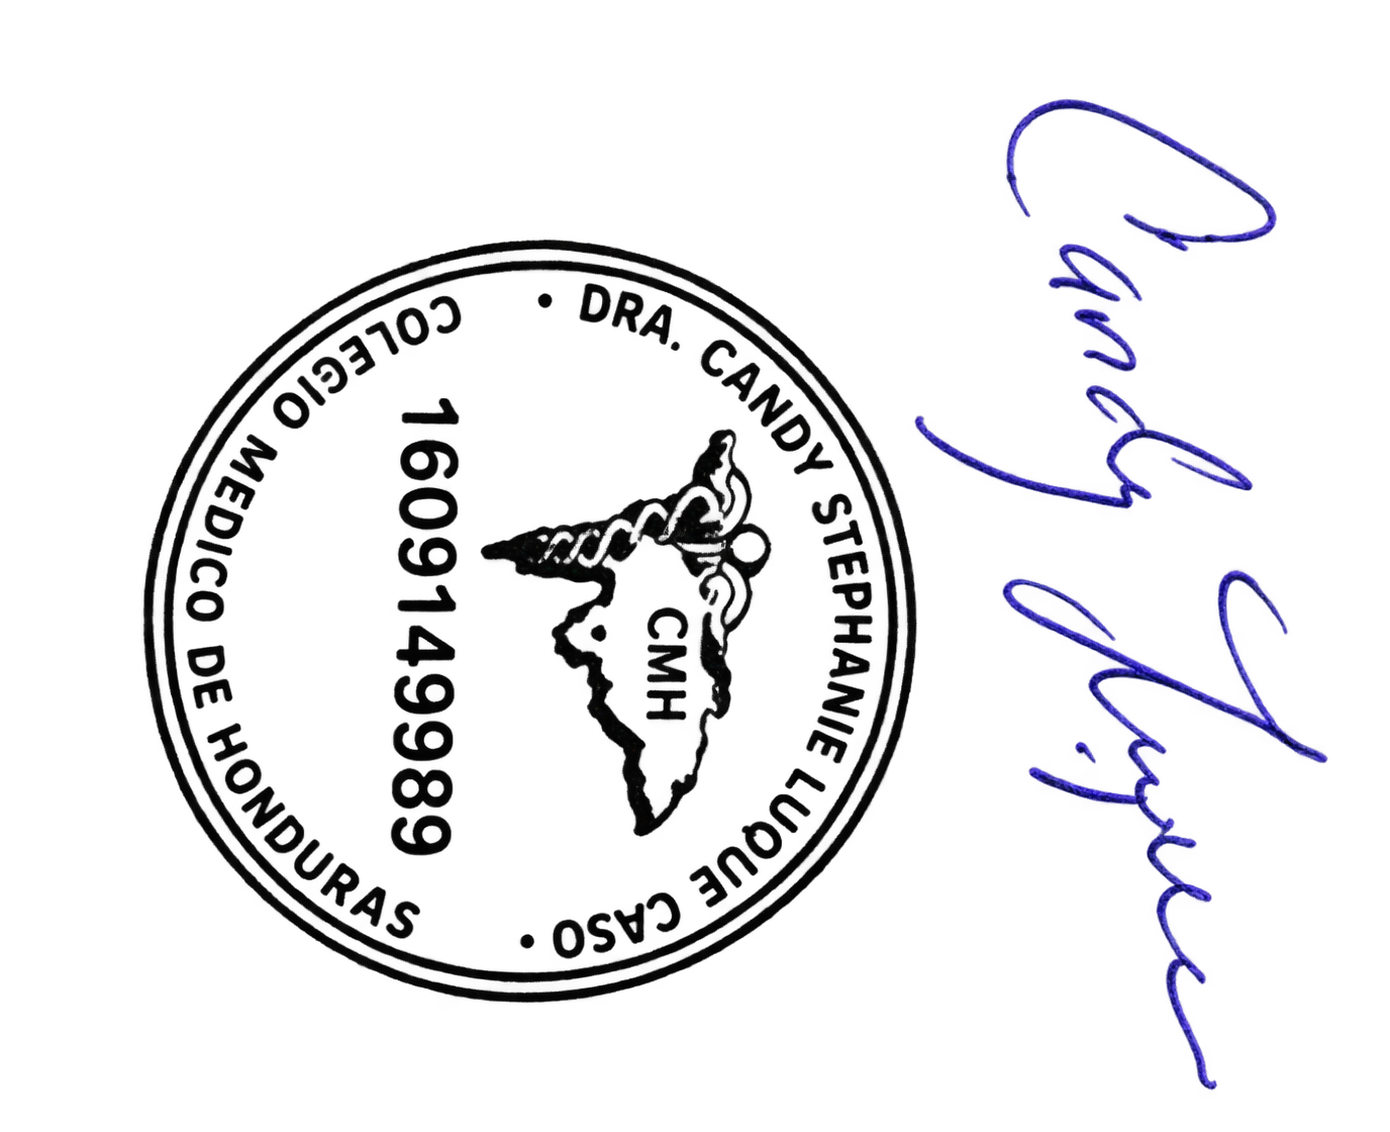
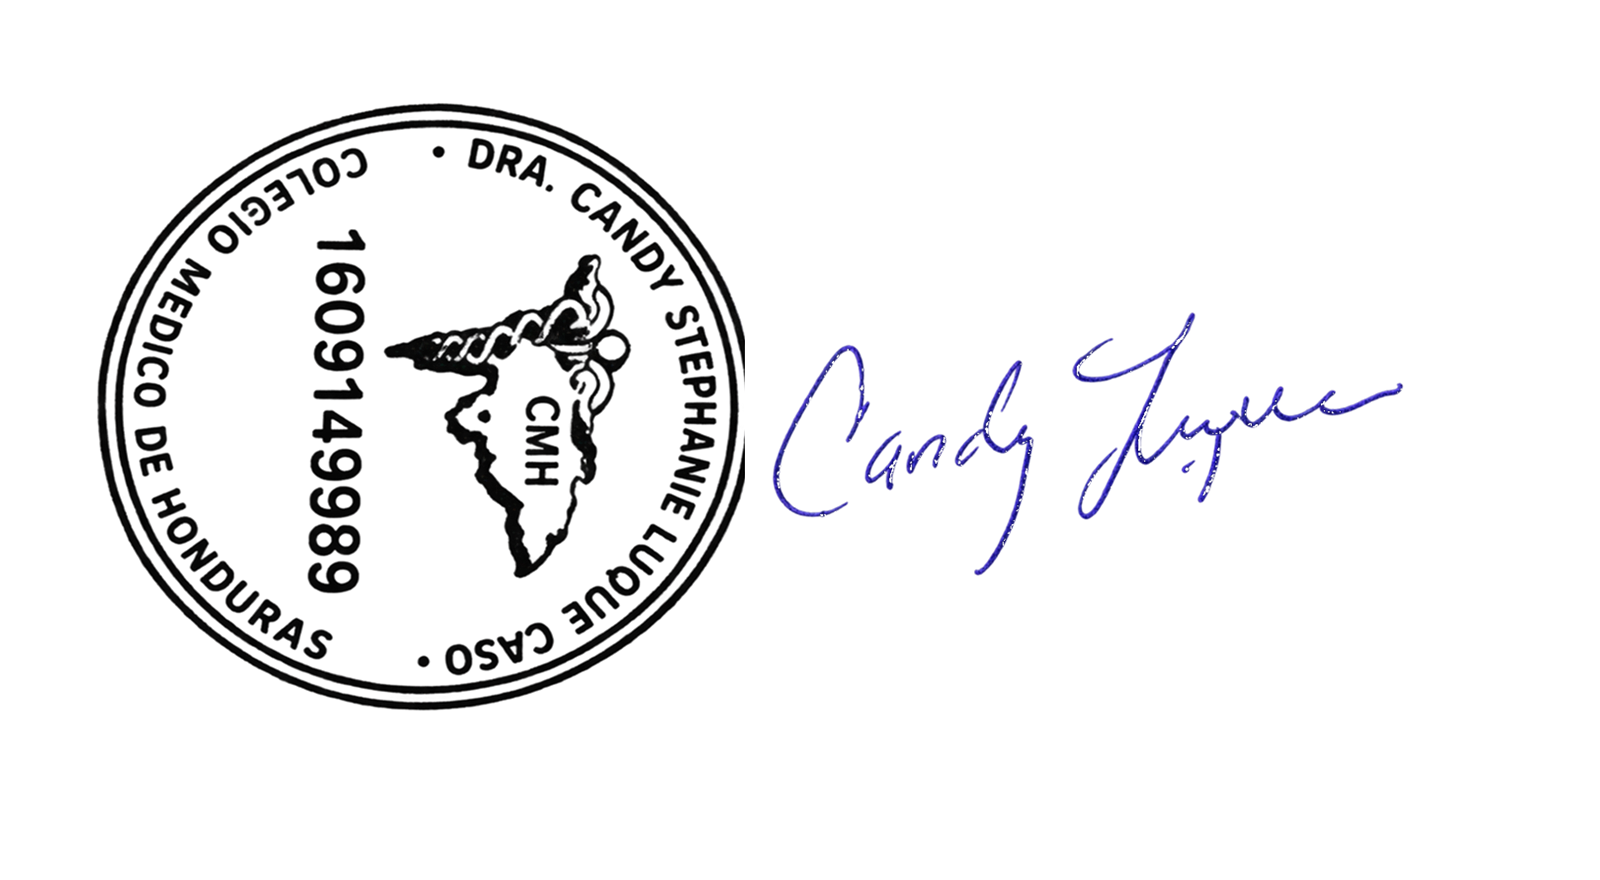
Optimizar sello horizontal y receta en una pagina

Changed region(s): [[0.0619, 0.092, 0.959, 0.9511], [0.8043, 0.1227, 0.9281, 0.2148], [0.7115, 0.092, 0.8353, 0.1841]]

diff --git a/clinica/templates/clinica/receta_imprimir.html b/clinica/templates/clinica/receta_imprimir.html
@@ -4,7 +4,43 @@
     <meta charset="utf-8">
     <title>Receta - {{ paciente.nombre }}</title>
     <style>
-        @page{size:letter;margin:18mm}*{box-sizing:border-box}body{font-family:Arial,Helvetica,sans-serif;color:#102338;margin:0;background:#eef4f8}.sheet{max-width:820px;margin:24px auto;background:#fff;border-radius:18px;padding:34px;box-shadow:0 24px 60px rgba(16,35,56,.16)}.head{display:flex;justify-content:space-between;gap:18px;align-items:center;border-bottom:3px solid #19b8ae;padding-bottom:18px}.brand{display:flex;gap:14px;align-items:center}.logo{width:74px;height:74px;border-radius:18px;border:1px solid #d7e4ee;display:grid;place-items:center;overflow:hidden;color:#19b8ae;font-weight:900;font-size:24px}.logo img{width:100%;height:100%;object-fit:contain}.brand h1{margin:0;font-size:24px}.brand p,.meta p{margin:4px 0;color:#5c7182;font-size:12px}.meta{text-align:right}.title{margin:28px 0 18px;text-align:center;letter-spacing:.18em;text-transform:uppercase;color:#0f6f8a}.patient{display:grid;grid-template-columns:repeat(3,1fr);gap:10px;margin-bottom:22px}.box{border:1px solid #d8e5ee;border-radius:12px;padding:11px}.box span{display:block;font-size:10px;color:#6c7f8f;font-weight:900;text-transform:uppercase;letter-spacing:.08em}.box strong{display:block;margin-top:5px;font-size:14px}.section{margin-top:18px}.section h3{margin:0 0 9px;color:#102338;font-size:14px;text-transform:uppercase;letter-spacing:.08em}.rx{min-height:120px;border:1px solid #d8e5ee;border-radius:14px;padding:18px;white-space:pre-wrap;line-height:1.7;font-size:15px}.products{width:100%;border-collapse:collapse;border:1px solid #d8e5ee;border-radius:12px;overflow:hidden}.products th{background:#eef7fb;color:#426078;text-align:left;font-size:9px;text-transform:uppercase;letter-spacing:.08em;padding:9px}.products td{border-top:1px solid #e1e9ef;padding:10px 9px;font-size:11px;vertical-align:top;line-height:1.45}.pill{padding:7px 10px;border-radius:999px;background:#eef7fb;color:#0f6f8a;font-weight:700;font-size:12px}.signature{display:grid;grid-template-columns:1fr 1fr;gap:50px;margin-top:58px}.signature.has-stamp{display:table;width:100%;table-layout:fixed;border-spacing:25px 0;margin-top:38px;break-inside:avoid}.signature.has-stamp>div{display:table-cell;width:50%;vertical-align:bottom}.signature-stamp{height:148px}.signature-mark{display:block;width:168px;height:126px;object-fit:contain;margin:0 auto -4px}.line{border-top:1px solid #102338;text-align:center;padding-top:8px;color:#52687a;font-size:12px}.actions{display:flex;justify-content:center;gap:8px;flex-wrap:wrap;margin:18px}.actions form{margin:0}.btn{display:inline-block;border:0;border-radius:999px;background:#1cb8ad;color:#fff;text-decoration:none;font-weight:900;padding:12px 20px;cursor:pointer}.btn.secondary{background:#fff;color:#31566f;border:1px solid #b8cfdd}.attached{max-width:820px;margin:0 auto 24px;padding:17px 20px;border:1px solid #cfe5df;border-radius:16px;background:#fff}.attached strong{display:block;margin-bottom:8px}.attached a{display:inline-block;margin:0 10px 5px 0;color:#08766d;font-weight:700;font-size:12px}@media print{body{background:#fff}.sheet{margin:0;box-shadow:none;border-radius:0}.actions,.attached{display:none}}
+        @page{size:letter;margin:10mm}
+        *{box-sizing:border-box}
+        body{font-family:Arial,Helvetica,sans-serif;color:#102338;margin:0;background:#eef4f8}
+        .sheet{max-width:820px;margin:20px auto;background:#fff;border-radius:18px;padding:24px 28px;box-shadow:0 24px 60px rgba(16,35,56,.16)}
+        .head{display:flex;justify-content:space-between;gap:16px;align-items:center;border-bottom:3px solid #19b8ae;padding-bottom:12px}
+        .brand{display:flex;gap:12px;align-items:center}
+        .logo{width:62px;height:62px;border-radius:15px;border:1px solid #d7e4ee;display:grid;place-items:center;overflow:hidden;color:#19b8ae;font-weight:900;font-size:21px}
+        .logo img{width:100%;height:100%;object-fit:contain}
+        .brand h1{margin:0;font-size:21px}
+        .brand p,.meta p{margin:3px 0;color:#5c7182;font-size:10px}
+        .meta{text-align:right}
+        .title{margin:16px 0 11px;text-align:center;letter-spacing:.18em;text-transform:uppercase;color:#0f6f8a;font-size:21px}
+        .patient{display:grid;grid-template-columns:repeat(3,1fr);gap:8px;margin-bottom:12px}
+        .box{border:1px solid #d8e5ee;border-radius:10px;padding:8px 10px}
+        .box span{display:block;font-size:9px;color:#6c7f8f;font-weight:900;text-transform:uppercase;letter-spacing:.08em}
+        .box strong{display:block;margin-top:3px;font-size:12px}
+        .section{margin-top:11px;break-inside:avoid}
+        .section h3{margin:0 0 6px;color:#102338;font-size:11px;text-transform:uppercase;letter-spacing:.08em}
+        .rx{min-height:72px;border:1px solid #d8e5ee;border-radius:11px;padding:10px 12px;white-space:pre-wrap;line-height:1.45;font-size:12px}
+        .products{width:100%;border-collapse:collapse;border:1px solid #d8e5ee;border-radius:10px;overflow:hidden}
+        .products th{background:#eef7fb;color:#426078;text-align:left;font-size:8px;text-transform:uppercase;letter-spacing:.08em;padding:6px 7px}
+        .products td{border-top:1px solid #e1e9ef;padding:7px;font-size:10px;vertical-align:top;line-height:1.35}
+        .pill{display:inline-block;margin:0 4px 4px 0;padding:5px 8px;border-radius:999px;background:#eef7fb;color:#0f6f8a;font-weight:700;font-size:10px}
+        .signature{display:grid;grid-template-columns:1fr 1fr;gap:42px;margin-top:36px;break-inside:avoid}
+        .signature.has-stamp{display:table;width:100%;table-layout:fixed;border-spacing:25px 0;margin-top:14px;break-inside:avoid}
+        .signature.has-stamp>div{display:table-cell;width:50%;vertical-align:bottom}
+        .signature-stamp{height:96px}
+        .signature-mark{display:block;width:300px;height:76px;object-fit:contain;margin:0 auto -2px}
+        .line{border-top:1px solid #102338;text-align:center;padding-top:5px;color:#52687a;font-size:10px}
+        .actions{display:flex;justify-content:center;gap:8px;flex-wrap:wrap;margin:18px}
+        .actions form{margin:0}
+        .btn{display:inline-block;border:0;border-radius:999px;background:#1cb8ad;color:#fff;text-decoration:none;font-weight:900;padding:12px 20px;cursor:pointer}
+        .btn.secondary{background:#fff;color:#31566f;border:1px solid #b8cfdd}
+        .attached{max-width:820px;margin:0 auto 24px;padding:17px 20px;border:1px solid #cfe5df;border-radius:16px;background:#fff}
+        .attached strong{display:block;margin-bottom:8px}
+        .attached a{display:inline-block;margin:0 10px 5px 0;color:#08766d;font-weight:700;font-size:12px}
+        @media print{body{background:#fff}.sheet{margin:0;box-shadow:none;border-radius:0;padding:0}.actions,.attached{display:none}}
     </style>
 </head>
 <body>
